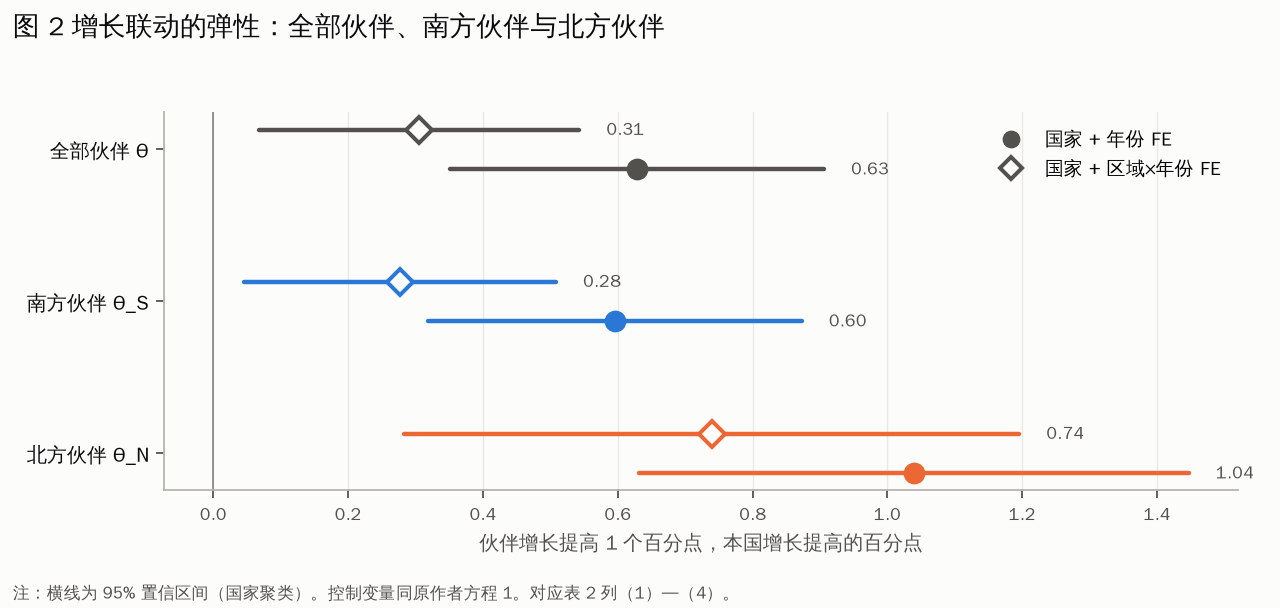
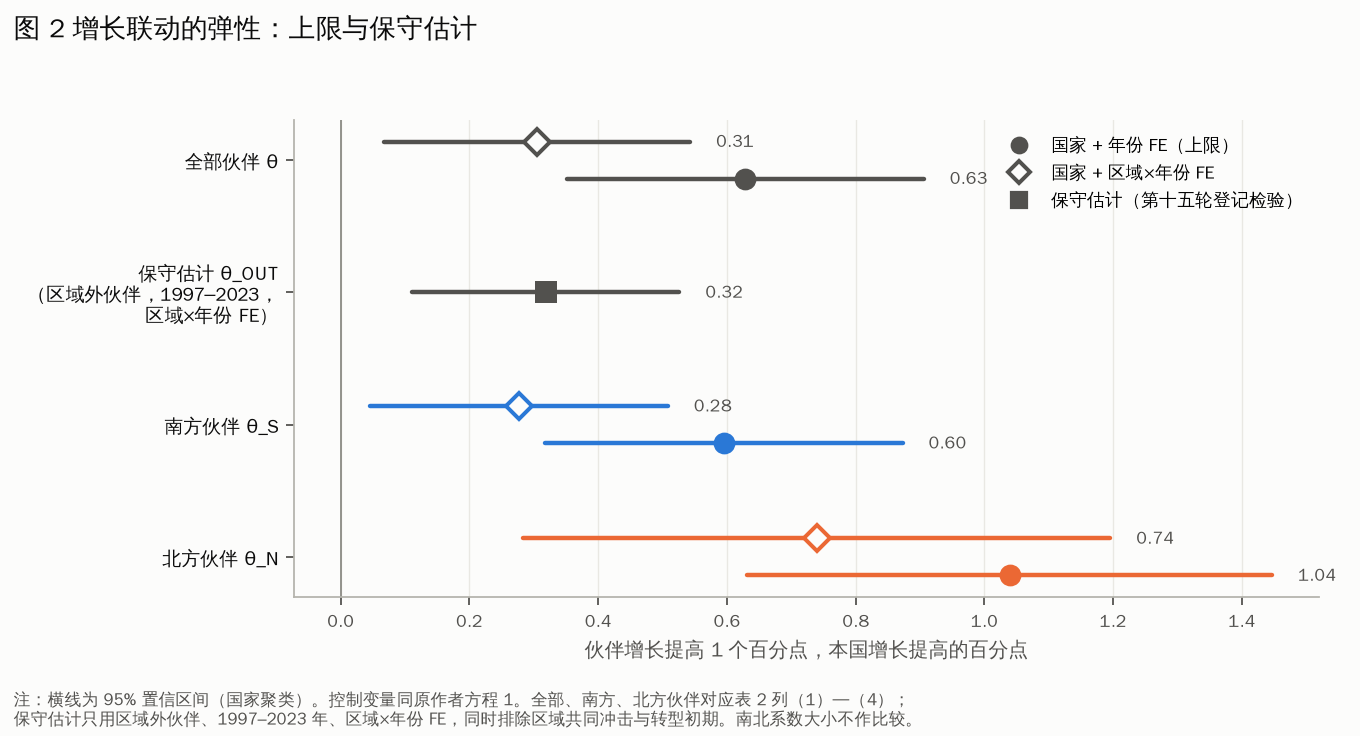
第十五轮：保守联动量级 θ_OUT = 0.32（95% 区间 0.11–0.53）获支持；图 2 并列上限与保守估计；大纲与报告重心下移到关系结构的转变
Claude-Session: https://claude.ai/code/session_01FYoKaXrYZEmiyqRJMaVcEd

diff --git a/code/56_conservative_linkage.py b/code/56_conservative_linkage.py
@@ -1,0 +1,51 @@
+# -*- coding: utf-8 -*-
+"""
+56_conservative_linkage.py —— 第十五轮事前登记（docs/preregistration15.md）：保守联动量级。
+
+1997–2023 年、国家 + 区域×年份 FE、只用区域外伙伴（去掉同区域伙伴后权重重新归一，与脚本 50 稳健性 6 相同）。
+  C1：θ_OUT > 0（单项检验）；报告 95% 置信区间。
+辅助：θ_S,OUT 与 θ_N,OUT；国家 + 年份 FE 下的 θ_OUT。
+输出：output/tables/tab45_conservative_linkage.md、data/clean/prereg15_c1.csv
+"""
+import numpy as np
+import pandas as pd
+from utils import CLEAN, TAB, start_log, rel
+
+start_log("56_conservative_linkage")
+src = open("50_growth_linkage.py", encoding="utf-8").read().split("# 三、L1 的置换检验")[0]
+exec(compile(src.replace('start_log("50_growth_linkage")', ""), "50_head", "exec"))
+print("—— 以上为脚本 50 的数据构造；以下为第十五轮 ——")
+
+reg = m.drop_duplicates("ISO3").set_index("ISO3").region
+same = {i: set(reg[reg == reg.get(i)].index) for i in isos}
+LO = linkage(SX, isos, drop=same)                     # 区域外伙伴，权重重新归一
+D = d0.merge(LO, on=["ISO3", "year"], how="inner")
+D = D[D.year >= 1997]
+S = D.dropna(subset=["g", "region_year"] + BASE + ["gP", "gS", "gN"])
+print(f"样本：{len(S)} 个观测，{S.ISO3.nunique()} 国，{S.year.min()}–{S.year.max()}")
+
+r = fit(S, BASE + ["gP"], ry=True)
+e, se, p = float(r.params["gP"]), float(r.std_errors["gP"]), float(r.pvalues["gP"])
+lo, hi = e - 1.96 * se, e + 1.96 * se
+verdict = "支持" if (e > 0 and p < 0.05) else ("证伪" if (e < 0 and p < 0.05) else "不显著")
+print(f"C1：θ_OUT = {e:+.4f}（{se:.4f}），p = {p:.4f}，95% 区间 [{lo:+.3f}, {hi:+.3f}]，N = {int(r.nobs)} → {verdict}")
+pd.DataFrame([{"检验": "C1", "估计": e, "SE": se, "p": p, "CI_low": lo, "CI_high": hi, "N": int(r.nobs), "判定": verdict}]) \
+    .to_csv(CLEAN / "prereg15_c1.csv", index=False)
+
+rs = fit(S, BASE + ["gS", "gN"], ry=True)
+ry_ = fit(S, BASE + ["gP"], ry=False)
+aux = {"θ_S,OUT（区域×年份 FE）": (rs.params["gS"], rs.std_errors["gS"], rs.pvalues["gS"]),
+       "θ_N,OUT（区域×年份 FE）": (rs.params["gN"], rs.std_errors["gN"], rs.pvalues["gN"]),
+       "θ_OUT（国家 + 年份 FE）": (ry_.params["gP"], ry_.std_errors["gP"], ry_.pvalues["gP"])}
+for k, v in aux.items():
+    print(f"  辅助 {k}: {v[0]:+.4f}（{v[1]:.4f}），p = {v[2]:.3f}")
+share = S.groupby(S.year >= 2001)[["gS", "gN"]].mean()
+print("区域外伙伴加权增长中南方的份额（描述）：", (share.gS / (share.gS + share.gN)).round(3).to_dict())
+
+lines = ["# 表 45 第十五轮：保守联动量级（1997–2023，区域×年份 FE，区域外伙伴）", "",
+         "原作者方程 1；国家 + 区域×年份 FE；国家聚类。伙伴增长只用区域外伙伴（去掉同区域伙伴后权重重新归一）。", "",
+         "| 检验 | 估计 | SE | p | 95% 区间 | N | 判定 |", "|---|---|---|---|---|---|---|",
+         f"| C1 θ_OUT | {e:+.4f} | {se:.4f} | {p:.4f} | [{lo:+.3f}, {hi:+.3f}] | {int(r.nobs)} | {verdict} |", "",
+         "## 辅助（只报告）", ""] + [f"- {k}：{v[0]:+.4f}（{v[1]:.4f}），p = {v[2]:.3f}" for k, v in aux.items()] + [""]
+(TAB / "tab45_conservative_linkage.md").write_text("\n".join(lines), encoding="utf-8")
+print(f"已写出 {rel(TAB / 'tab45_conservative_linkage.md')}")

diff --git a/docs/cn_paper_outline.md b/docs/cn_paper_outline.md
@@ -19,14 +19,16 @@
   │
 推导  联动贡献 = 联动强度 θ × 关系密度（贸易份额）× 伙伴增长
   │
-命题一  联动存在：伙伴增长带动本国增长                 ← L1：θ = 0.63***，通过置换检验；区域×年份 FE 下 0.31**，
-                                                          但对 1991–96 年转型经济体样本敏感（第十四轮诊断）
-命题二  南南联动存在：南方伙伴的增长同样带动本国增长   ← L4：θ_S = 0.60***；区域×年份 FE 下 0.28**（同上敏感）
+命题一  联动存在：发展中国家的增长与贸易伙伴的增长     ← 上限：θ = 0.63***（国家 + 年份 FE，含区域共同成分），通过置换检验
+        显著同步；扣除区域共同冲击后仍有约 0.2–0.3     ← 保守：θ_OUT = 0.32***，95% 区间 [0.11, 0.53]（第十五轮登记检验：
+        的联动（相互依存的状态，不主张传导的因果强度）      区域外伙伴 + 1997–2023 年 + 区域×年份 FE）
+命题二  南南联动存在：南方伙伴的增长同样带动本国增长   ← L4：θ_S = 0.60***；保守设定下区域外南方伙伴 0.29***（辅助项）
         （单位强度的南北差异移出核心论点）              ← θ_S − θ_N 点估计 −0.4 至 −0.5，控制共同冲击后 p = 0.064（第十四轮）
-命题三  联动来源的结构转型：南方关系密度与增长的上升，   ← 南方贡献占比 33% → 65% → 66%（描述性分解）
+命题三  联动来源的结构转型（**全文最稳健的证据**）：     ← 南北弹性相同的口径：南方占比 46% → 77%，只要求 θ > 0，与 θ 水平无关
+        南方关系密度与增长的上升，                     ← 用估计弹性的口径：33% → 65% → 66%
         使南方成为联动的主要来源                        ← 南方伙伴的出口份额 35% → 62%
         而且联动是多源的，没有形成单一新中心            ← M1：去掉中国后 0.64***；M2：去掉最大南方伙伴后 0.94***（第十三轮）
-命题四  联动的条件：联动以实际经济关系为载体，           ← 区域外伙伴的联动约 0.20；伙伴增长滞后一期不显著
+命题四  联动的条件：联动以实际经济关系为载体，           ← 区域内联动占较大部分：上限约 0.6，保守约 0.2–0.3
         区域性强；制度规则的独立作用有限并逐步递减；   ← 深度效应 8% → 2.5%，立场差异大的国家对接近 0
         立场差异大的国家对之间，贸易关系有所调整        ← 相对 2021 年：2017 年 +7%，2025 年 −8%
   │
@@ -100,16 +102,17 @@
 
 ### 第四部分：实证结果（约 5,000 字）
 
-1. **联动存在**（表 2 列 1–2；图 2）：
-   - θ = 0.63（p < 0.01），在各种子样本中都稳健；
-   - 控制区域×年份冲击后为 0.31（p < 0.05）。**但这一更严格的结果对样本敏感**：剔除 1991–1996 年转型经济体后降为 0.14（不显著）；只用 1997–2023 年时为 0.24（p < 0.05）。正文要分层写：国家 + 年份 FE（原作者设定）下稳健；区域×年份 FE 下，全样本和 1997 年以后成立，但部分依赖转型初期的区域同步冲击（第十四轮诊断，表 44）；
-   - 置换 θ 的第 95 百分位只有 0.10。
+1. **联动存在：同时报告上限与保守估计**（表 2 列 1–2、表 2b；图 2）：
+   - **上限**：国家 + 年份 FE 下 θ = 0.63（p < 0.01），在各种子样本中都稳健，通过置换检验（置换 θ 的第 95 百分位只有 0.10）。由于贸易伙伴高度集中在本区域，这一量级包含区域共同成分。
+   - **保守估计**：只用区域外伙伴、1997–2023 年、区域×年份 FE，θ_OUT = 0.32（p = 0.003，95% 区间 0.11–0.53；第十五轮登记检验 C1）。三种各自排除共同冲击的设计（区域外伙伴 0.20、1997 年以后的区域×年份 FE 0.24、滞后一期 0.20）量级接近，都在 0.2–0.3。
+   - 全样本区域×年份 FE 的 0.31 对 1991–1996 年转型经济体敏感（第十四轮诊断，表 44），所以正文以保守估计为准，不再把「全样本区域×年份 FE」作为稳健性依据。
+   - **表述**：「发展中国家的增长与贸易伙伴的增长显著同步；扣除区域共同冲击后仍有约 0.2–0.3 的联动」。「联动发展」对应相互依存的状态与同步性，**文章不主张传导的因果强度**。
 2. **南南联动与南北差异**（表 2 列 3–4；图 2）：
-   - θ_S = 0.60（区域×年份 FE 下 0.28，只用 1997–2023 年时 0.19，p = 0.091）；
+   - θ_S = 0.60；保守设定下区域外南方伙伴 0.29（p = 0.003，辅助项）；
    - θ_N = 1.04，差值 −0.44（p < 0.05）。但控制大宗商品周期和全球金融周期后，登记检验 E1 为 −0.40（p = 0.064），未达显著；按事先约定，**南北强度差异只放在讨论或脚注**。
 3. **稳健性**（表 3；图 3）：
    - 固定基期权重、进出口合计权重、剔除 2009 和 2020 年、剔除中国：都稳健；
-   - **如实报告两项减弱**：伙伴增长滞后一期后不显著；只用区域外伙伴时约为 0.20。
+   - 伙伴增长滞后一期后不显著，只用区域外伙伴时约为 0.20：这两项并入上文的「保守估计」一起讨论，而不是作为孤立的减弱。
 4. **延伸假设**（表 2 列 5–6）：
    - 开放度调节方向一致（0.23，原始 p = 0.023，Holm 后 0.068），写作「提示性证据」；
    - 联动弹性没有随时期上升（0.73 对 0.55）；
@@ -122,6 +125,7 @@
 - **表 4**：分解表；
 - **解读**：联动强度没有变（L3），变的是关系结构，这正是结构转型的含义；
 - **两种口径**：若南北弹性相同，南方贡献占比只由伙伴加权增长决定，为 46% → 77%；若用估计的南北弹性，为 33% → 66%。两种口径下「南方成为主要来源」都成立，所以这一结论不依赖南北强度差异是否存在；
+- **与 θ 的水平无关**：在南北弹性相同的口径下，南方占比只取决于贸易份额和伙伴增长，只要求 θ > 0。θ 从 0.6（上限）降到 0.2–0.3（保守），改变的是联动贡献的绝对量，不改变南方占比的变化方向。所以**关系结构的转变是全文最稳健的证据**，联动的存在是它获得意义的前提；
 - **联动是多源的**（第十三轮，表 4b）：
   - 从南方伙伴增长中拆出中国后，其余南方伙伴的联动为 0.64（区域×年份 FE 下 0.30）；
   - 拆出各国最大的南方伙伴后为 0.94（0.51）；
@@ -138,6 +142,10 @@
   - 在立场差异大的国家对之间始终接近 0；
   - RCEP 生效四年内未检测到显著的贸易增量（第九轮）。
 - **外部环境变化下的关系调整**（图 4b）：立场差异大的国家对之间的贸易，相对 2021 年，2017 年高约 7%，2025 年低约 8%。
+
+**讨论要点（放在第六部分末尾或结论前，不作为发现）**：
+- 1991–1996 年转型经济体的同步崩溃，有文献解释为原有生产和供应关系的中断（Blanchard 和 Kremer 1997 的「无组织化」）。按这种理解，那一时期的区域同步是关系依存的极端表现，只是方向为负；区域×年份 FE 可能因此过度控制。
+- 这是看到结果之后的解释，现有设计无法把它和外生的区域冲击区分开，只能在讨论中提出，不用来恢复任何判定。
 
 ### 结论与政策含义（约 2,000 字）
 
@@ -181,6 +189,7 @@
 | 表 4 | `output/tables/tab39_linkage_decomposition.md` | 联动来源分解 |
 | 附表 A3 | `output/tables/tab43_hierarchy_common_shocks.md` | 控制大宗商品与全球金融周期后的南北差异（第十四轮） |
 | 附表 A4 | `output/tables/tab44_linkage_sample_diagnostic.md` | 联动系数对样本的敏感性（探索性诊断） |
+| 表 2b | `output/tables/tab45_conservative_linkage.md` | 保守联动量级（第十五轮登记检验） |
 | 表 4b | `output/tables/tab42_south_multisource.md` | 南南联动的多源性：拆出中国、拆出最大南方伙伴（第十三轮） |
 | 表 5 | 由 `tab36_depth_era_bloc.md`、`tab33_rcep.md`、`tab35_rcep_buffer.md` 汇编 | 联动的条件：规则深度与 RCEP |
 
@@ -205,6 +214,8 @@
 | 中国的带动效应 | 中国是南方关系比重上升的重要组成部分 |
 | 北方带动更强，证明等级性依然存在 | （移出正文核心论点）单位系数的南北差异点估计稳定，但控制共同冲击后的登记检验未达显著（第十四轮，p = 0.064），只在讨论中提及 |
 | 联动在区域×年份 FE 下稳健 | 联动在国家 + 年份 FE 下稳健；区域×年份 FE 下全样本成立，但对转型初期样本敏感 |
+| 伙伴增长每提高 1 个百分点，本国增长提高 0.63 个百分点 | 两个量级并列：包含区域共同成分的上限约 0.6；扣除区域共同冲击后的保守估计约 0.2–0.3 |
+| 伙伴增长带动 / 传导（因果） | 与伙伴增长显著同步；相互依存（不主张传导的因果强度） |
 | 最大南方伙伴的联动较弱 / 去掉最大伙伴后南南联动更强 | （不写入正文；最多放在脚注：系数大小不宜比较，差异未经检验） |
 | 南南联动靠中国支撑 / 中国没有带动 | 南南联动是多源的，不依赖单一南方大国；中国的单位联动估计不精确 |
 | 剔除中国后结果不变（指第十二轮稳健性） | 把中国从样本国中剔除后结果不变；把中国从伙伴中拆出后，其余南方伙伴的联动仍稳健（第十三轮） |

diff --git a/docs/results_vs_prereg15.md b/docs/results_vs_prereg15.md
@@ -1,0 +1,53 @@
+# 结果与事前登记对照（第十五轮）：保守联动量级
+
+**登记**：`docs/preregistration15.md`，提交号 `2dc35b8`（2026-09-25 12:48:49 UTC）。
+**检验**：`code/56_conservative_linkage.py`，登记之后运行；判定按登记规则。
+**样本**：117 个发展中国家，1997–2023 年，N = 2,982；国家 + 区域×年份 FE；国家聚类；只用区域外伙伴（权重重新归一）。
+
+---
+
+## 一、登记检验
+
+| 检验 | 估计（SE） | p | 95% 区间 | 判定 |
+|---|---|---|---|---|
+| **C1** 保守联动 θ_OUT | **+0.319（0.106）** | 0.003 | [0.11, 0.53] | **支持** |
+
+**辅助**（不参与判定）：
+
+| 项目 | 估计（SE） | p |
+|---|---|---|
+| 同一设定下，区域外南方伙伴 θ_S,OUT | +0.294（0.099） | 0.003 |
+| 同一设定下，区域外北方伙伴 θ_N,OUT | +0.639（0.253） | 0.012 |
+| 同一样本，国家 + 年份 FE 下的 θ_OUT | +0.170（0.102） | 0.097 |
+
+- 南北系数大小不作比较（见第十三、十四轮的说明）。
+- 描述：区域外伙伴的加权增长中，南方的份额 1997–2000 年约 40%，2001 年以后约 71%。
+
+## 二、量级的综合
+
+| 设计 | 排除共同冲击的方式 | θ |
+|---|---|---|
+| 国家 + 年份 FE，全部伙伴（第十二轮 L1） | 只排除全球共同冲击 | 0.63（上限，包含区域共同成分） |
+| 区域外伙伴，年份 FE（第十二轮稳健性 6） | 去掉区域内伙伴 | 0.20 |
+| 1997–2023 年，区域×年份 FE（表 44，探索性） | 区域×年份 FE，去掉转型初期 | 0.24 |
+| 伙伴增长滞后一期（第十二轮稳健性 3） | 去掉同期冲击 | 0.20（不显著） |
+| **区域外伙伴 + 1997–2023 年 + 区域×年份 FE（第十五轮 C1，登记）** | 三者同时 | **0.32，95% 区间 [0.11, 0.53]** |
+
+**表述**：
+- 国家 + 年份 FE 下约 0.6，作为包含区域共同成分的**上限**；
+- 同时排除区域共同冲击与转型初期后约 0.2–0.3，这是**保守估计**，由第十五轮登记检验给出正式依据（0.32，95% 区间 0.11–0.53）；
+- 正文把两个量级都写出来。
+
+**说明**：
+- 同一样本下，区域×年份 FE 的估计（0.32）高于国家 + 年份 FE（0.17，p = 0.097）。一种可能是：区域×年份 FE 去掉本国增长中的区域成分后，区域外伙伴增长的信号更清楚。这是事后解释，没有检验。
+- 置信区间较宽（0.11–0.53），所以量级表述为「约 0.2–0.3」，不给精确值。
+
+## 三、对论文的影响
+
+1. **命题一的表述**：发展中国家的增长与贸易伙伴的增长显著同步；扣除区域共同冲击和转型初期后，仍有约 0.2–0.3 的联动。「联动发展」对应的是相互依存的状态和同步性，文章不主张传导的因果强度。
+2. **命题三不受 θ 水平的影响**：
+   - 在南北弹性相同的口径下，南方占比（46% → 77%）只取决于贸易份额和伙伴增长，只要求 θ > 0；
+   - θ 从 0.6 降到 0.2–0.3，改变的是联动贡献的绝对量，不改变南方占比的变化方向。
+   - 保守设定下，区域外南方伙伴的联动仍然显著（0.29，p = 0.003，辅助项）。
+3. **主张的重心下移**：文章最稳健的证据是**关系结构的转变**；联动的存在是它获得意义的前提；联动的量级需要保守表述。
+4. **讨论中可以提出、但不能用来恢复判定的解释**：1991–1996 年转型经济体的同步崩溃，文献中有一种解释是原有生产和供应关系的中断（Blanchard 和 Kremer 1997 的「无组织化」）。按这种理解，那一时期的区域同步是关系依存的极端表现，只是方向为负；区域×年份 FE 可能因此过度控制。这是看到结果之后的解释，现有设计无法把它和外生的区域冲击区分开。

diff --git a/docs/preliminary_report_linkage.md b/docs/preliminary_report_linkage.md
@@ -11,10 +11,12 @@
 
 经典现代化理论将各国现代化视为彼此独立、沿同一阶梯攀升的单元过程；依附论虽关注国家间关系，却将其理解为中心对外围的等级性带动。本报告基于 117 个发展中国家 1991—2023 年的面板数据，在 Aizenman 等人的增长方程中引入贸易伙伴加权增长，得到四项发现：
 
-1. 伙伴增长对本国增长存在稳健的联动效应，弹性约 0.63；控制区域共同冲击后约 0.31。
+1. 发展中国家的增长与贸易伙伴的增长显著同步：包含区域共同成分的上限约 0.6；同时排除区域共同冲击与转型初期后，仍有约 0.2–0.3 的联动（登记检验：0.32，95% 区间 0.11–0.53）。
 2. 南方伙伴的增长同样带动本国增长，弹性约 0.60；南南联动是多源的，不依赖中国或任何单一南方大国。
 3. 随着南南经贸关系的扩展，南方已成为联动的主要来源，其贡献占比由 1990 年代的约三分之一升至 21 世纪以来的约三分之二。
 4. 联动以实际经济关系为载体，区域性较强；贸易协定规则深度的独立作用有限，并逐步递减。
+
+其中最稳健的是第 3 项：在南北弹性相同的口径下，南方占比只取决于贸易份额和伙伴增长，与联动弹性的水平无关。
 
 所有核心检验均先登记、后估计。
 
@@ -91,6 +93,10 @@
   - 所以更准确的表述是：联动在原作者设定下稳健；在更严格的区域×年份 FE 下，全样本和 1997 年以后成立，但部分依赖转型初期的区域同步冲击。
 - **南北单位强度差异**（θ_N 1.04 对 θ_S 0.60）：控制大宗商品周期和全球金融周期后，登记检验 E1 为 −0.40（p = 0.064），未达显著。按事先约定，不作为发现，只在讨论中提及（`docs/results_vs_prereg14.md`）。
 
+- **第十五轮：保守量级**（登记检验 C1，`docs/results_vs_prereg15.md`）：只用区域外伙伴、1997–2023 年、区域×年份 FE，θ_OUT = 0.32（p = 0.003，95% 区间 0.11–0.53）；同一设定下，区域外南方伙伴为 0.29（p = 0.003）。
+  - 三种各自排除共同冲击的设计（区域外伙伴 0.20、1997 年以后区域×年份 FE 0.24、滞后一期 0.20）量级接近。
+  - 结论：**0.6 作为包含区域共同成分的上限，0.2–0.3 作为保守估计，两者并列报告**。
+
 ![图 2](../output/figures/lk_fig2_coefficients.png)
 
 ### 2. 稳健性（表 3、图 3）
@@ -153,7 +159,7 @@
 
 ## 五、初步结论
 
-1. **联动存在**：各国现代化不是彼此独立的单元过程。
+1. **联动存在**：各国现代化不是彼此独立的单元过程。发展中国家的增长与伙伴增长显著同步，扣除区域共同冲击后仍有约 0.2–0.3 的联动；文章描述相互依存的状态，不主张传导的因果强度。
 2. **南南联动存在**：带动并非只来自中心国家。南北单位强度的比较证据不足，不下结论。
 3. **结构转型**：南方已成为联动的主要来源，约占三分之二。变化来自关系结构（份额与增长），而不是联动强度。**南南联动是多源的**：拆出中国或各国最大的南方伙伴后，其余南方伙伴的联动依然稳健。
 4. **联动的条件**：以实际经济关系为载体，区域性强；制度规则需要落到实际关系上才能发挥作用。

diff --git a/code/README.md b/code/README.md
@@ -60,6 +60,7 @@
 | `53_south_multisource.py` | 登记十三 + Holm 第十三族 | 南方伙伴增长中拆出中国（M1）、拆出每国最大南方伙伴（M2）；稳健性与北方 / 其他南方 / 中国的描述性分解 | `tab42`、`data/clean/prereg13_family13.csv`、`data/clean/linkage_split_cy.csv` |
 | `54_hierarchy_common_shocks.py` | 登记十四 + Holm 第十四族 | 加入大宗商品贸易条件冲击（IMF CTOT）与全球金融周期 × 资本开放度（VIX、美国利率）后的 θ_S − θ_N、θ_S、θ | `tab43`、`data/clean/prereg14_family14.csv`；下载 `data/raw/geo/imf_ctot_annual.csv`、`cboe_vix_history.csv` |
 | `55_linkage_sample_diagnostic.py` | 探索性（不在登记中） | 联动系数对冲突国家、转型经济体 1991–96 年、1997 年以后样本的敏感性 | `tab44` |
+| `56_conservative_linkage.py` | 登记十五（单项） | 区域外伙伴、1997–2023 年、区域×年份 FE 下的保守联动量级 θ_OUT | `tab45`、`data/clean/prereg15_c1.csv` |
 | `39_separation_tests.py` | 登记六 N1–N3 + Holm 第六族 | 承诺与约束分离的系统检验（AC/LE 编码、服务生效滞后、领域选择） | `tab29`、`cn_fig6_separation.png`、`data/clean/prereg6_family6.csv` |
 | `35_ratification_expectations.py` | 登记五 H1–H4 + Holm 第五族 | 否决者、失败协定、等待时长、协定深度与待生效效应；探索性诊断（约 8 分钟） | `tab25`、`data/clean/prereg5_family5.csv` |
 

diff --git a/docs/falsification_log.md b/docs/falsification_log.md
@@ -249,3 +249,9 @@
 | E3 θ > 0 | +0.553，Holm p < 0.001；区域×年份 FE +0.165（p = 0.12） | 支持（区域×年份 FE 下不成立） |
 
 探索性诊断（脚本 55）：区域×年份 FE 下联动的显著性主要来自 1991–1996 年的转型经济体；剔除后 θ = 0.14（不显著），只用 1997–2023 年时 θ = 0.24（p = 0.044）。国家 + 年份 FE 下，结果在所有子样本中都稳健。
+
+## 第十五轮：保守联动量级（登记 `preregistration15.md`，结果 `results_vs_prereg15.md`）
+
+| 检验 | 结果 | 状态 |
+|---|---|---|
+| C1 区域外伙伴、1997–2023 年、区域×年份 FE 下 θ_OUT > 0 | +0.319，p = 0.003，95% 区间 [0.11, 0.53] | **支持**：正文并列报告上限（约 0.6）与保守估计（约 0.2–0.3） |

diff --git a/output/tables/tab45_conservative_linkage.md b/output/tables/tab45_conservative_linkage.md
@@ -1,0 +1,13 @@
+# 表 45 第十五轮：保守联动量级（1997–2023，区域×年份 FE，区域外伙伴）
+
+原作者方程 1；国家 + 区域×年份 FE；国家聚类。伙伴增长只用区域外伙伴（去掉同区域伙伴后权重重新归一）。
+
+| 检验 | 估计 | SE | p | 95% 区间 | N | 判定 |
+|---|---|---|---|---|---|---|
+| C1 θ_OUT | +0.3189 | 0.1058 | 0.0026 | [+0.111, +0.526] | 2982 | 支持 |
+
+## 辅助（只报告）
+
+- θ_S,OUT（区域×年份 FE）：+0.2943（0.0987），p = 0.003
+- θ_N,OUT（区域×年份 FE）：+0.6386（0.2528），p = 0.012
+- θ_OUT（国家 + 年份 FE）：+0.1699（0.1022），p = 0.097
